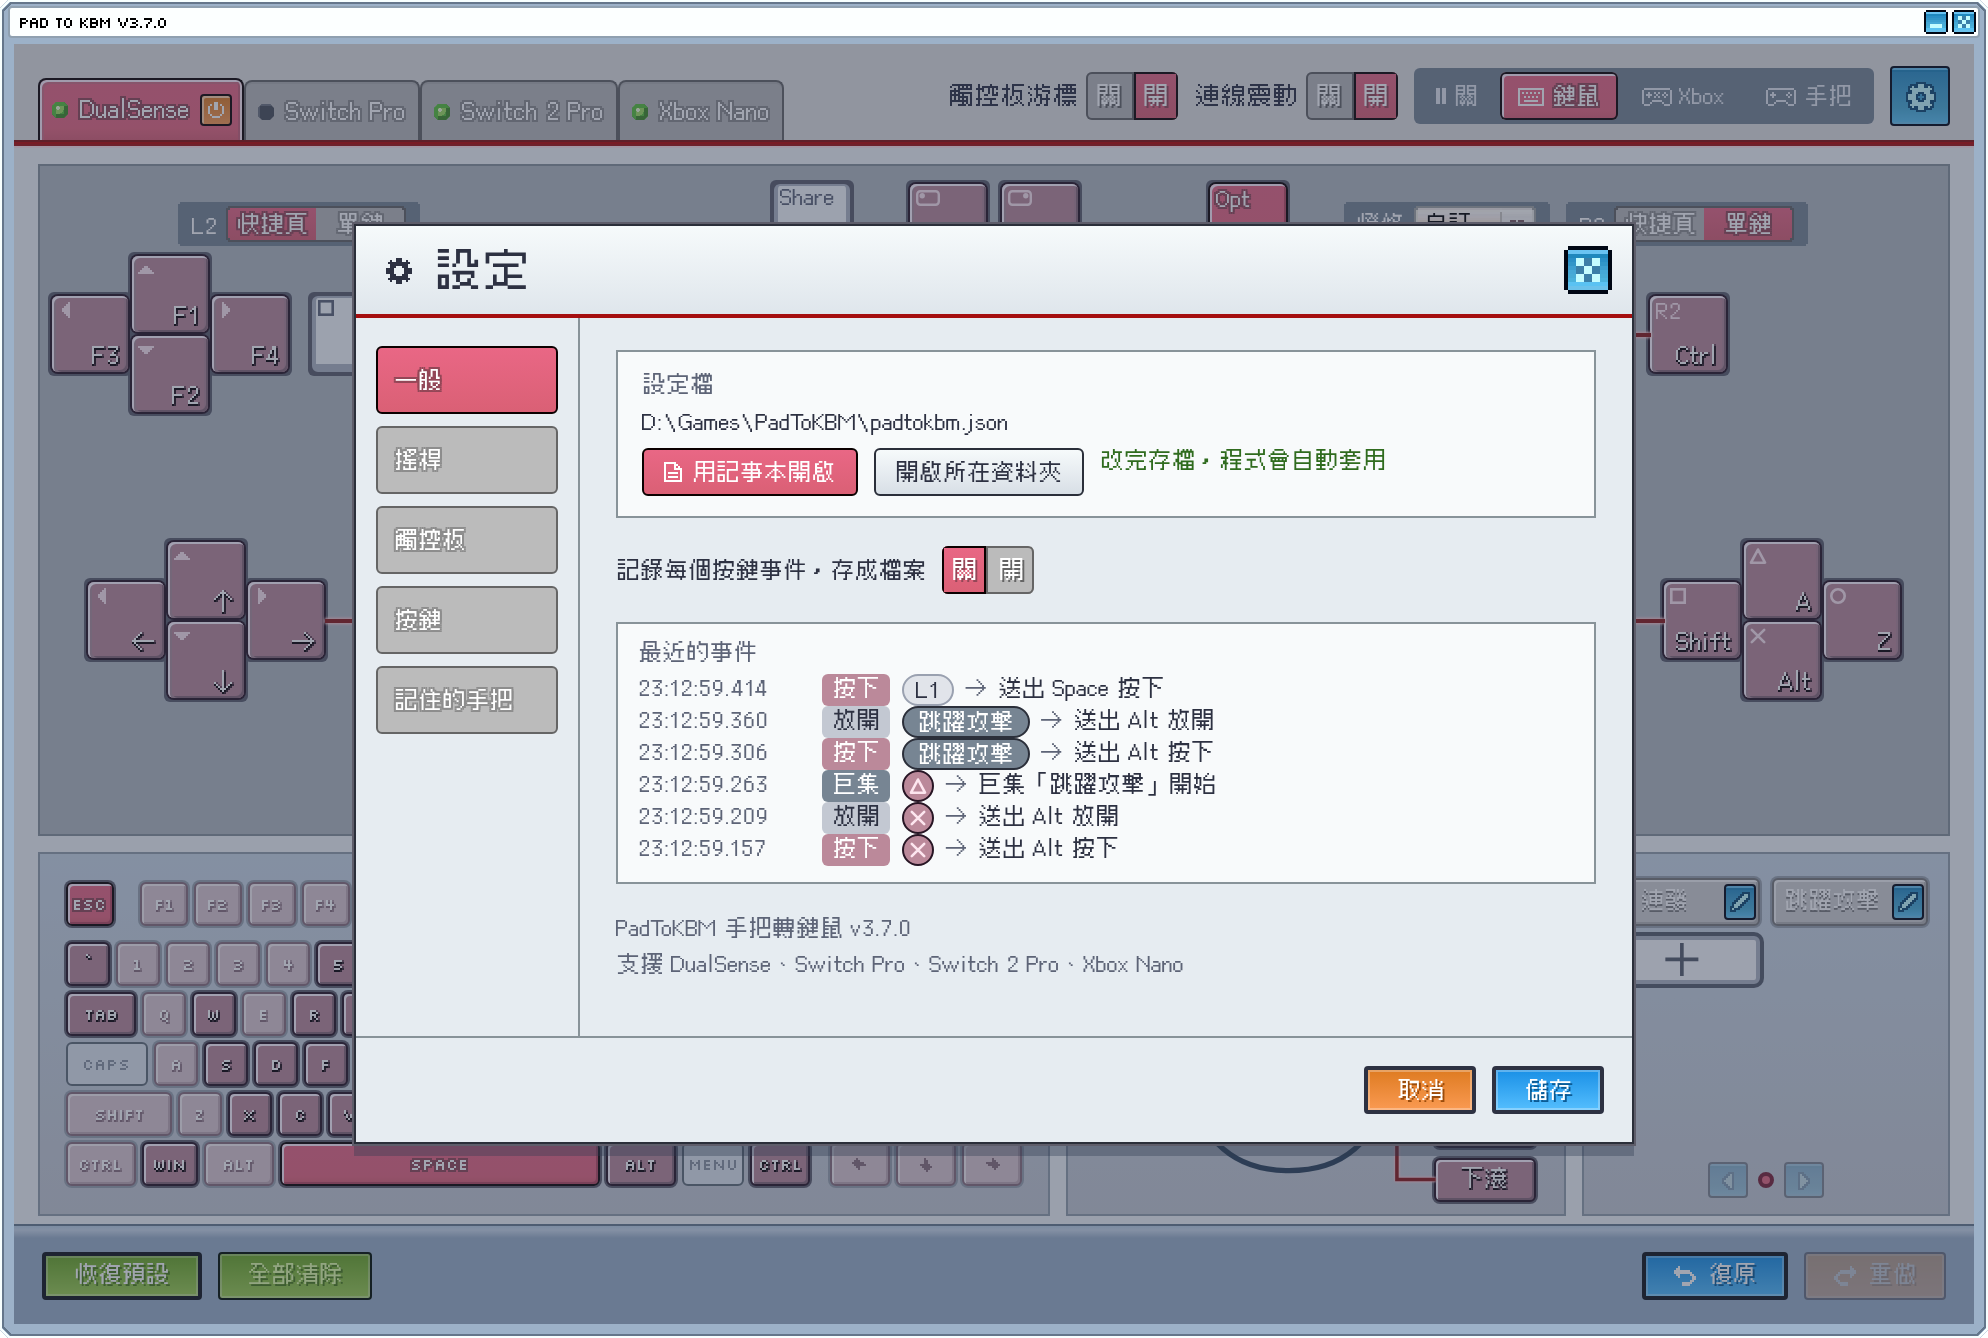
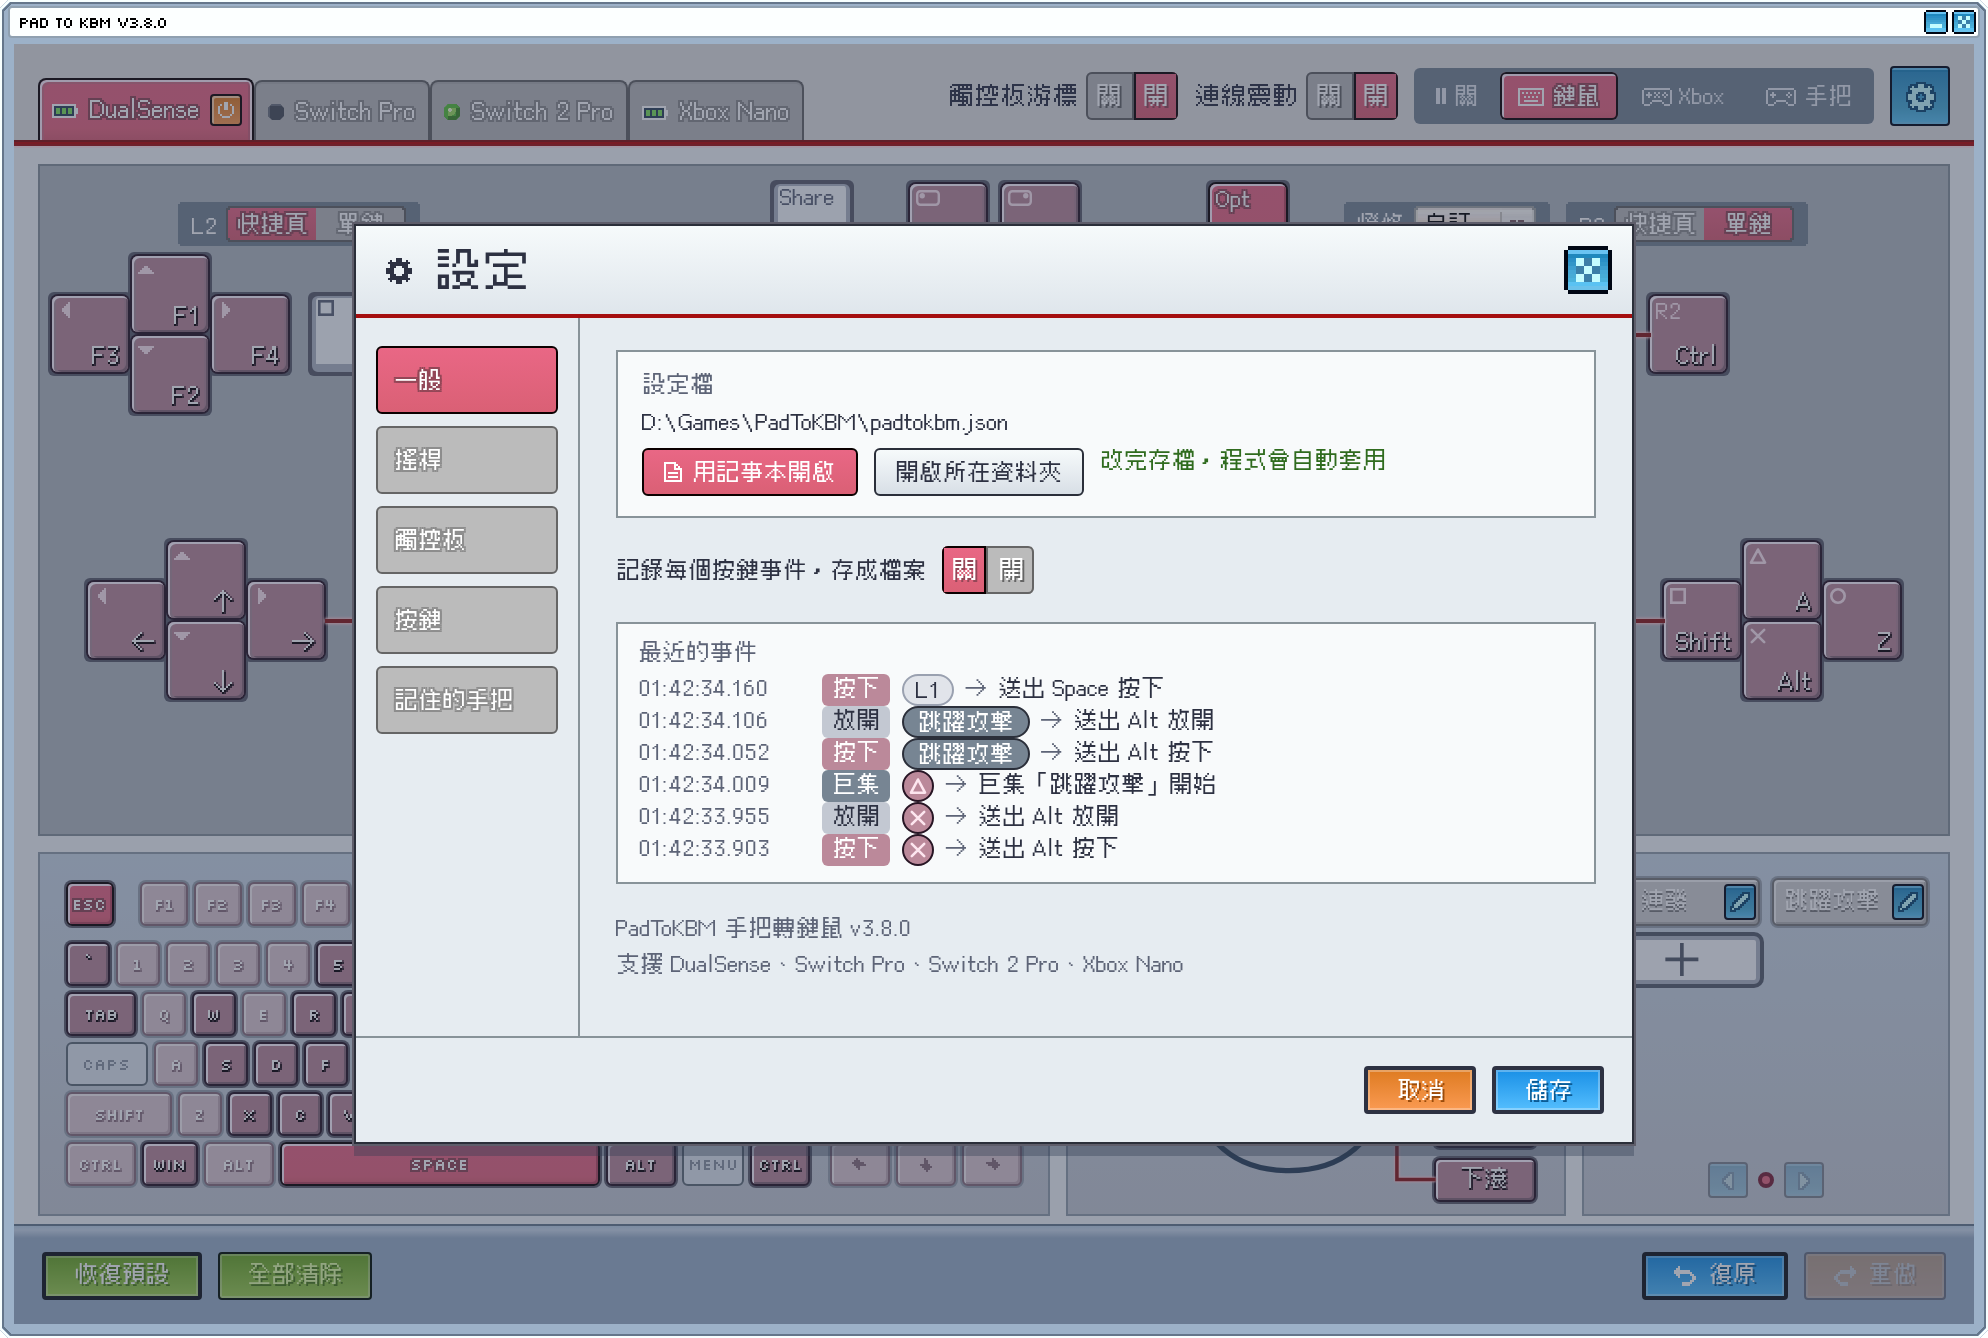
release(v3.8.0): pad battery (with v3.6.0 and v3.7.0)
- Version 3.8.0 in rust/Cargo.toml, rust/tauri.conf.json and CHANGELOG;
  3.7.0 and 3.6.0 dated 2026-11-09 (released together with 3.8.0).
- CHANGELOG 3.8.0: battery in the pad tabs (DualSense, Switch Pro, Xbox
  Nano), breathing bolt while charging, hover plate, Nano over GATT with
  no charging state, macOS Phase 2 TBD.
- README (zh + en): a battery line and docs/images/readme/battery.png
  (scripts/readme-shots.mjs; the demo status carries batteries, so the
  other shots show them in the header too).
- CLAUDE.md: controller-status battery includes the Xbox Nano (GATT);
  iron rule 11 notes the Nano's GATT read is display only.
- web-smoke: the mock's default status carries `battery` ({}).

Claude-Session: https://claude.ai/code/session_018PWF1rA9AnneKyPv6w4CUm

Changed region(s): [[0.3119, 0.4903, 0.4054, 0.6435], [0.0312, 0.0613, 0.4054, 0.0919]]

diff --git a/CHANGELOG.md b/CHANGELOG.md
@@ -3,7 +3,41 @@
 Format follows [Keep a Changelog](https://keepachangelog.com/en/1.1.0/);
 project adheres to [Semantic Versioning](https://semver.org/spec/v2.0.0.html).
 
-## [3.7.0] - 2026-11-08
+## [3.8.0] - 2026-11-09
+
+This release also carries v3.6.0 and v3.7.0 (below), which were not
+released on their own.
+
+### Added
+
+- **Pad battery in the tabs.** Each connected DualSense, Switch Pro and Xbox
+  Nano shows a small pixel battery in place of its green lamp: three green
+  bars above 66 %, two yellow at 34–66 %, one red at 11–33 %, none at 10 %
+  or less. While a pad charges a bolt breathes over the battery (still when
+  Windows asks for less motion). Hovering the tab shows a grey plate with
+  the battery doubled and the percentage (`80%`, `60% 充電中`). The Switch
+  Pro reports in quarters (0 / 25 / 50 / 75 / 100 %). A DualSense full and
+  still plugged in shows three green bars, no bolt.
+- **The Xbox Nano's battery comes over Bluetooth GATT** (Battery Service,
+  Battery Level), read when its session starts and every 60 seconds, on its
+  own thread; it works with and without Microsoft's Xbox driver. Battery
+  Level carries no charging state, so **the Nano never shows the bolt**.
+- `controller-status` and `get_controller_status` carry `battery`
+  (`{ "<slug>": { pct, charging } }`, connected pads that report one); the
+  status is re-sent only when a reading changes. A battery reading never
+  connects or disconnects a pad.
+- `examples/nano_battery_probe.rs`: a read-only one-shot check of the
+  Nano's battery on a given Bluetooth address.
+
+### Notes
+
+- A pad with no reading keeps the green lamp: the Switch 2 Pro (its report
+  has no battery we decode yet), and a DualSense reporting a battery error
+  (its tab goes back to the lamp mid-session too).
+- macOS: Phase 2 TBD for the battery display (the Nano's GATT read uses
+  WinRT, Windows only).
+
+## [3.7.0] - 2026-11-09
 
 ### Added
 

diff --git a/CLAUDE.md b/CLAUDE.md
@@ -171,7 +171,7 @@ present pad) and `forget_all_hidden_pads` (the absent ones); fire-and-forget
 `open_config_folder`. Events the board listens for: `controller-status`
 (`connected` bool + `connected_pads` + `off_pads` + `warnings` + `battery`
 `{ "<slug>": { pct, charging } }` for the connected pads that report one —
-DualSense, Switch Pro; re-sent when a reading changes, never part of the
+DualSense, Switch Pro, Xbox Nano (over GATT, never `charging`); re-sent when a reading changes, never part of the
 connection state; the pad slugs are `dualsense`, `ns_pro`, `ns2_pro`,
 `xbox_nano`; `get_controller_status` carries the same `battery`),
 `button-down/up`, `touchpad-click/hover`, `activity` (with `source`:
@@ -413,7 +413,10 @@ regresses real, observed bugs the codebase already fixed once:
     link presence is observed directly via report stream
     presence/absence. The worker that owns the session may also write
     rumble and lightbar output reports to its pad (on connect and while
-    streaming); these writes never affect connection state.
+    streaming); these writes never affect connection state. The Xbox
+    Nano's battery is read over Bluetooth GATT (Battery Level 0x2A19,
+    `gamepad/nano_battery.rs`) on its own thread per session, display
+    only: a reading or a failed read never opens or ends a session.
 
 ## Anti-cheat self-discipline
 

diff --git a/README.en.md b/README.en.md
@@ -72,6 +72,9 @@ The first run writes a config file `padtokbm.json` next to the exe; the whole fo
   </tr>
 </table>
 
+<p><img src="docs/images/readme/battery.png" width="404" alt="The pad tabs: DualSense and Xbox Nano show a three-bar green battery, the Switch 2 Pro a green lamp; hovering the DualSense shows a grey plate reading 80%"></p>
+<p><sub><b>Battery.</b> A connected DualSense, Switch Pro or Xbox Nano shows its battery in its tab (green / yellow / red), a breathing bolt while it charges, and the percentage on hover; the Xbox Nano never shows charging.</sub></p>
+
 <sub>Screenshots use a demo config and can be regenerated with <code>scripts/readme-shots.mjs</code>.</sub>
 
 ---

diff --git a/README.md b/README.md
@@ -87,6 +87,9 @@ PadToKBM（舊名 DualSense Mapper）是一個 Windows 小程式：一個約 11 
   </tr>
 </table>
 
+<p><img src="docs/images/readme/battery.png" width="404" alt="手把分頁：DualSense 和 Xbox Nano 顯示三格綠色電池，Switch 2 Pro 是綠燈；滑鼠移到 DualSense 上，灰色說明牌寫 80%"></p>
+<p><sub><b>電量。</b>連上的 DualSense、Switch Pro、Xbox Nano 在分頁上顯示電池（綠／黃／紅），充電時閃電一明一暗，滑鼠移上去看百分比；Xbox Nano 不會顯示充電中。</sub></p>
+
 <sub>截圖用的是示範設定，可用 <code>scripts/readme-shots.mjs</code> 重新產生。</sub>
 
 ---
